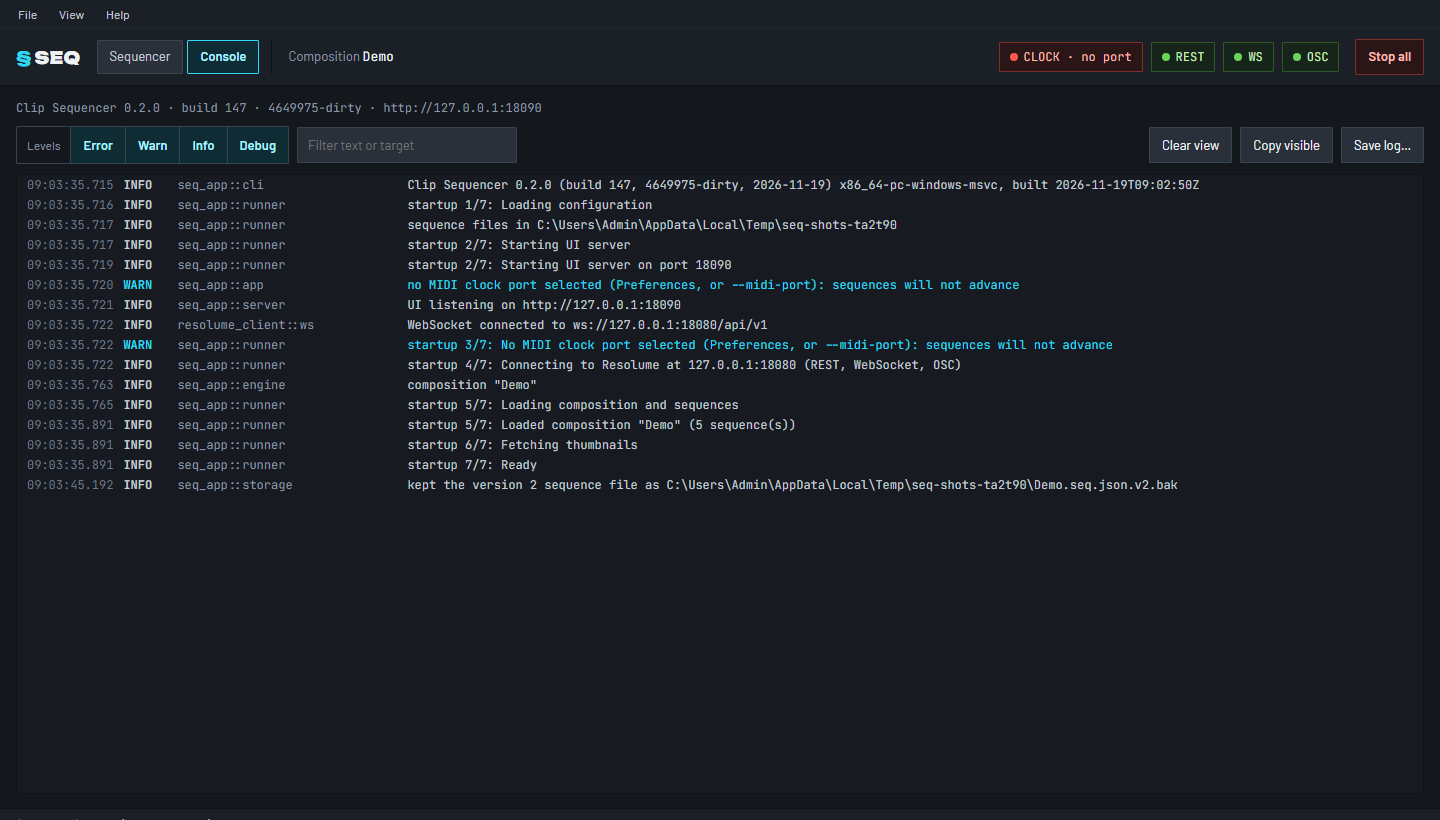
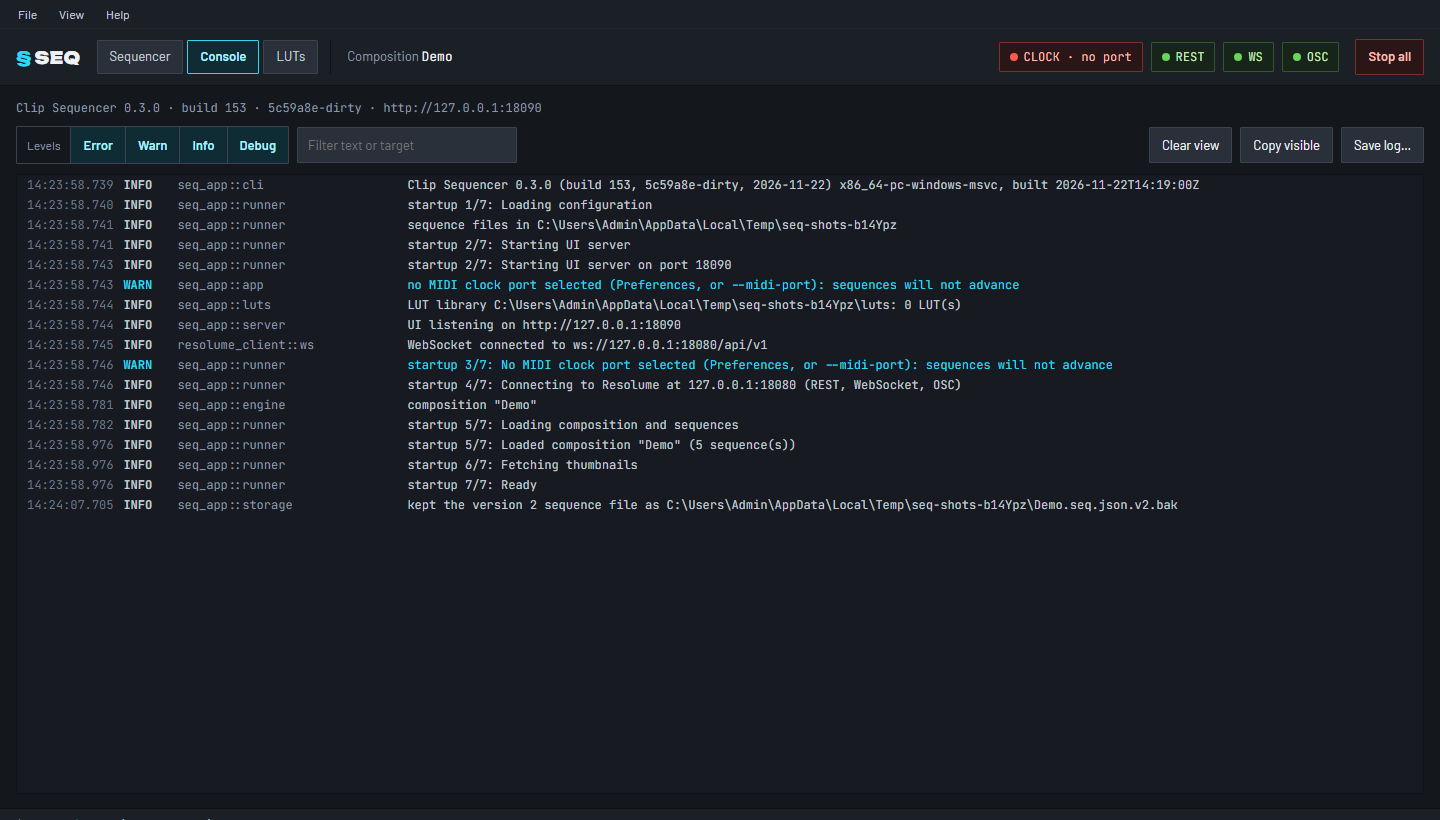
Docs: LUTs (SPEC 14, manual page with screenshots, README, changelog)
All manual screenshots regenerated; three new ones for the LUTs tab.

diff --git a/site/landing/index.html b/site/landing/index.html
@@ -62,6 +62,8 @@
         sequences are kept per deck.</p></li>
       <li><h3>Timeline in Resolume</h3><p>The optional FFGL plugin "1000A Sequence" shows a sequence's lanes and
         playhead right on its clip.</p></li>
+      <li><h3>Colour LUTs</h3><p>Grade the output with sliders and RGB curves, see it before and after, and
+        Resolume's own LUT effect picks up every change while you drag. Imports and exports <code>.cube</code>.</p></li>
       <li><h3>Your look</h3><p>Five themes, from dark rack slate to a light one for daylight, or make your own colours
         and fonts. Everything is bundled, nothing loads from the net.</p></li>
     </ul>

diff --git a/docs/SPEC.md b/docs/SPEC.md
@@ -383,6 +383,7 @@ Single screen, everything controlled from here (no separate live view).
 
 ### 9.1 Top bar
 - `§ SEQ` logo, composition name.
+- **View tabs:** Sequencer (Ctrl+1), Console (Ctrl+2), LUTs (Ctrl+3, §14).
 - **Deck tabs** (see 7.2): selected tab = what is shown; `LIVE` badge = active deck in Resolume.
 - Connection chips: CLOCK (BPM, locked / no clock), REST, WS, OSC — green when OK, red when not.
 - **Stop all** (always visible).
@@ -617,3 +618,71 @@ same-origin; the FFGL plugin and command-line tools send no `Origin`.
 
 Start quantization, time signatures other than 4/4, per-step parameter automation,
 cross-deck sequences, multi-user editing.
+
+## 14. LUTs (M18, decided 2026-11-22)
+
+Colour-grade Resolume's output from the app: a library of LUTs edited in the **LUTs** tab and applied by Resolume's
+own **LUT** effect, which reads a `.cube` file and reloads it by itself when the file changes (notes §18). No own
+plugin.
+
+### 14.1 Library and files
+
+- Folder `<data-dir>/luts/`. Each LUT is `<name>.lut.json` (the controls, below) and `<name>.cube` (the baked
+  table, 33³, 0..1 domain, six decimals, `TITLE` = the name). The name is the file name: at most 64 characters,
+  none of `\ / : * ? " < > |`, no leading or trailing dot or space, no Windows device name; names differ in more
+  than case. At most 200 LUTs.
+- `.lut.json`: `{ "version": 1, "grade": {…}, "curves": {…}, "base"?: { "size", "data" } }`. Missing fields take
+  their defaults (which change nothing); a newer `version` is refused (the file is skipped with a log line).
+  `.seq.json` (§6) is unchanged.
+- Every change bakes the table at once (in memory) and writes both files through a temp file renamed over the old
+  one, so Resolume never reads a half-written file. While a control is dragged, a LUT's files are written at most
+  every 100 ms; the last value is always written. A `.cube` that already holds the same text is not rewritten (a
+  restart doesn't make Resolume reload).
+- At start the library is read from the folder; files that don't load are skipped.
+
+### 14.2 The transform (crates/lut-core)
+
+Display-referred RGB 0..1, in this order: the imported **base** table (trilinear), **exposure** (stops, ×2^e),
+**white balance** (temperature −1..1: R ×(1+0.25t), B ×(1−0.25t); tint −1..1: G ×(1−0.25n)), per channel
+**gain** (master × channel), **lift** (`v + lift·(1−v)`, master + channel), **gamma** (`v^(1/γ)`, master ×
+channel), **contrast** around 0.5, **saturation** around Rec. 709 luma, clamp to 0..1, then the **curves**: master,
+then the channel's own. Curves are monotone cubic splines (Fritsch–Carlson) through their points; left of the
+first point the first y, right of the last the last y.
+
+Import: `.cube` with `LUT_3D_SIZE` (any 2..256) or `LUT_1D_SIZE`, optional `DOMAIN_MIN`/`DOMAIN_MAX`, `#`
+comments; other keywords are ignored. It becomes the base table, resampled to 33³. Export writes the baked table.
+
+### 14.3 Resolume's LUT effects
+
+- The app reads every LUT effect (`name` `LUT` with a `ParamFile` `LUT 3D`) from each composition push: on the
+  composition, the layers and the live deck's clips (layer groups are not read; their JSON is not probed). It
+  subscribes to their `LUT 3D` parameters by id and follows changes.
+- **Binding by reference:** an effect uses a library LUT when its `LUT 3D` path is that LUT's `.cube` (compared
+  without case and slash direction). Resolume saves the path with the composition, so the binding survives
+  reloads and restarts, and it works without the sequencer.
+- **Apply** ("Use <LUT>" on an effect): the app writes the file if pending, then sets `LUT 3D` to its full path over
+  the WebSocket. **Rename** points the effects using the old file at the new one, and removes the old files 2 s
+  later. **Delete** removes the files; the UI asks first and says how many effects use it.
+
+### 14.4 LUTs tab (Ctrl+3)
+
+- Left: the library (name, "used by N LUT effects", "imported"), **+ New** (neutral), **Import…** (several
+  `.cube` files; names from the file names, made unique).
+- Middle: name (double-click renames), Rename, Duplicate, Export .cube, Delete…; the preview: an image with the LUT
+  right of a draggable split, the original left of it. Images: drawn test images (ramps, colour chart, skin tones,
+  neon) and the live deck's clip thumbnails. WebGL2 with the table the app baked, so it matches Resolume. Below:
+  Resolume's LUT effects (where, which file or LUT) with **Use <LUT>**.
+- Right: Basic (exposure, contrast, saturation, temperature, tint), Lift/Gamma/Gain (all, R, G, B), Curves (Master,
+  R, G, B). Double-click on a slider resets it. Changes go to the app every 40 ms while dragging; a control being
+  dragged isn't moved by the app's echo.
+
+### 14.5 Protocol (§9.6)
+
+- App → UI: `luts` `{ dir, luts: [{ name, rev, grade, curves, has_base, path }] }` on connect and on every change;
+  `structure.lut_effects: [{ effect_id, file_param, path, place: { kind: composition | layer | clip, … } }]`.
+- UI → app: `lut_create { name, from? }`, `lut_rename { from, to }`, `lut_delete { name }`,
+  `lut_update { name, grade, curves }`, `lut_clear_base { name }`, `lut_apply { name, file_param }`. Errors show
+  as a notice.
+- HTTP: `GET /api/luts/table?name=` (the baked table: size³ little-endian f32 RGB, red fastest; headers
+  `x-lut-rev`, `x-lut-size`), `GET /api/luts/cube?name=` (export), `POST /api/luts/import?name=` (body: the
+  `.cube` text; `{ ok, name }` or 400 `{ ok: false, error }`).

diff --git a/site/manual/src/luts.md b/site/manual/src/luts.md
@@ -1,0 +1,79 @@
+# Colour LUTs
+
+A **LUT** (lookup table) changes the colours of a picture: warmer, cooler, more contrast, a look for the set, or a
+correction for a projector or LED wall that shows colours off. The **LUTs** tab is a small LUT editor. Resolume
+applies the LUTs with its own **LUT** effect, and every change you make shows on the output while you drag.
+
+![The LUTs tab: library, preview with the original on the left and the LUT on the right, controls](images/luts-tab.png)
+
+## How it fits together
+
+- The sequencer keeps a **library** of named LUTs. Each one is saved as a `.cube` file in the app's data folder
+  (`luts\`).
+- In Resolume you add the built-in **LUT** effect where the LUT should apply: on the **composition** (the whole
+  output, the usual place for projector or LED correction), on a **layer**, or on a **clip**.
+- The effect's **LUT 3D** field points at one of the library's `.cube` files. Several effects can use the same
+  LUT.
+- When you change a LUT in the sequencer, it rewrites the file, and Resolume reloads it by itself, within a
+  moment. Every effect that uses that LUT changes.
+- The link lives in Resolume: it saves the file path with the composition. The LUTs keep working when the sequencer
+  is closed.
+
+## Your first LUT
+
+1. Open the **LUTs** tab (or press **Ctrl+3**).
+2. Click **+ New**. A neutral LUT called *New LUT* appears: it changes nothing yet. Double-click its name to
+   rename it, for example to *Stage Warm*.
+3. Move the controls on the right. The preview shows the original left of the line and the LUT right of it; drag
+   in the picture to move the line. Under **Image** you can pick a test image or one of your clips (the live deck's
+   thumbnails).
+4. In Resolume, add the **LUT** effect to the composition (or a layer or clip). It appears in the sequencer under
+   **LUT effects in Resolume**.
+5. Click **Use Stage Warm** next to it. The effect now uses your LUT; keep adjusting and watch the output.
+
+![LUT effects in Resolume: the composition uses Stage Warm, a layer has no file yet](images/luts-effects.png)
+
+You can also choose the file in Resolume yourself: click the effect's **LUT 3D** field and pick the `.cube` from
+the sequencer's `luts` folder (its path shows above the list).
+
+## The controls
+
+![Controls: basic, lift, gamma, gain and curves](images/luts-controls.png)
+
+| Control | What it does |
+|---|---|
+| **Exposure** | Brighter or darker, in stops (+1 doubles the light). |
+| **Contrast** | More or less difference between dark and bright, around mid grey. |
+| **Saturation** | Colour strength: 0 is black and white, 1 unchanged. |
+| **Temperature** | Cooler (blue) to warmer (orange). |
+| **Tint** | Green to magenta. |
+| **Lift** | Raises or lowers the shadows; per colour it tints them. |
+| **Gamma** | Moves the midtones; per colour it tints them. |
+| **Gain** | Scales the highlights; per colour it balances white (useful for LED walls). |
+| **Curves** | Master, R, G and B. Click to add a point, drag it, double-click to remove it. |
+
+*All* changes the three colours together; **R**, **G** and **B** change one. Double-click a slider to reset it;
+**Reset** next to *Basic* resets all sliders (the curves stay), **Reset** next to the curves resets the curve
+shown. The order is fixed: the sliders first, then the curves.
+
+## Importing and exporting
+
+- **Import…** loads `.cube` files, several at once (3D and 1D LUTs). Each becomes a library LUT named after its
+  file, marked *imported*. The sliders and curves then work on top of it; **remove base** drops the imported table.
+- **Export .cube** saves a LUT for other programs.
+
+## Renaming, duplicating, deleting
+
+- **Rename** (or double-click the name): the file is renamed, and the sequencer points the LUT effects that used
+  it at the new file.
+- **Duplicate** makes a copy to try a variation.
+- **Delete…** asks first and tells you if LUT effects in Resolume use it. They keep their path to a file that is
+  gone, so give them another LUT first.
+
+## Good to know
+
+- Changes are saved at once; there is no Save button and no undo. Duplicate a LUT before big changes.
+- While you drag, the file is written at most ten times a second; the last value always ends up in it.
+- The preview uses the same table as Resolume, so what you see in the sequencer is what Resolume shows (Resolume
+  may apply effects after the LUT that change it).
+- LUT effects inside layer groups aren't listed yet; choose the file in Resolume for those.

diff --git a/docs/PLAN.md b/docs/PLAN.md
@@ -185,7 +185,7 @@ Asked for on 2026-11-19: follow Resolume's tempo when no MIDI clock is used. Pro
       Troubleshooting, Glossary, FAQ, Interface, Introduction, Installation, Quick start); README, changelog,
       landing page.
 
-## M18 — LUT editor, applied through Resolume's LUT effect  (concept agreed 2026-11-22, probe done, not started)
+## M18 — LUT editor, applied through Resolume's LUT effect  (built 2026-11-22, live check pending)
 Asked for on 2026-11-22: build LUTs in the app and apply them in Resolume live. Probed: notes §18. Resolume's
 own **LUT** effect reloads its `.cube` file by itself when the file changes, and its path can be set over the
 WebSocket, so the user chose it over an own FFGL plugin (2026-11-22; the plugin idea is dropped).
@@ -212,11 +212,13 @@ Tasks:
       FFGL effect works; Resolume's LUT effect: `LUT 3D` path, reload on overwrite and on rename, path set over WS.
 - [ ] Check before relying on them: Resolume with a 33³ `.cube` (probed only 17³), `DOMAIN_MIN/MAX`, and how fast
       it reloads during a fast drag (pick the write throttle from it).
-- [ ] `lut-core`: params, curves, bake to 33³, `.cube` read/write, tests.
-- [ ] App: library storage, throttled atomic `.cube` writes, WS commands, LUT effect discovery and "apply to",
-      mock-resolume LUT effect.
-- [ ] Web UI: LUT tab, library, controls, curve editor, preview, import/export, "used by", "apply to".
-- [ ] Docs: SPEC section, manual page with screenshots, README, changelog.
+- [x] `lut-core`: params, curves, bake to 33³, `.cube` read/write (1D/3D, domain), tests.
+- [x] App: library storage, throttled atomic `.cube` writes, WS commands, LUT effect discovery (composition,
+      layers, live deck's clips; not layer groups) and "apply to", mock-resolume effect parameters. Tests.
+- [x] Web UI: LUT tab (Ctrl+3), library, controls, curve editor, WebGL2 preview, import/export, "used by",
+      "Use <LUT>". Checked against the mock with Playwright.
+- [x] Docs: SPEC §14, manual page "Colour LUTs" with screenshots, interface, shortcuts, glossary, README,
+      changelog, landing page.
 
 ## M14 — In-app update  (planned 2026-11-04, not started)
 Goal: the user can check by hand whether a newer release exists, and install it from the app. Work out the

diff --git a/README.md b/README.md
@@ -26,6 +26,8 @@ getting started and for building from source.*
 - Works per deck, follows renames, re-finds clips by id, name or file.
 - Desktop app (one window, splash, live Console tab) and a headless mode with the UI in a browser.
 - Five themes and an editor for your own colours and fonts (Preferences → Appearance).
+- **LUTs tab:** a library of colour LUTs (grading controls, RGB curves, `.cube` import/export) with a before/after
+  preview. Resolume's own LUT effect applies them, and it picks up every change while you drag.
 - Optional FFGL source plugin "1000A Sequence" ([`ffgl/`](ffgl/README.md)) that shows the sequence timeline
   on the `§` clip in Resolume; it ships in the zip and is installed from the app (**File → Install FFGL plugin…**).
 
@@ -176,6 +178,8 @@ folder and logs a warning.
 - **Edits while running** apply at the next start ("edited · applies at next start").
 - **Push thumbnail to Resolume** sets the sequence's mosaic as its `§` clip's thumbnail.
 - **Stop all** clears every layer the sequencer owns.
+- **LUTs** (Ctrl+3): **+ New** or **Import…**, adjust; add Resolume's **LUT** effect to the composition, a layer or a
+  clip and click **Use <LUT>** next to it. LUTs are saved in `%APPDATA%clip-sequencerluts` (`.cube` + `.lut.json`).
 
 Sequences are saved automatically (about 1 s after an edit) to
 `%APPDATA%\clip-sequencer\<Composition>.seq.json`.

diff --git a/site/manual/src/interface.md b/site/manual/src/interface.md
@@ -9,8 +9,8 @@ inspector on the right, and a status bar at the bottom.
 
 ![Top bar](images/top-bar.png)
 
-- **§ SEQ** and the tabs **Sequencer | Console** (Ctrl+1 / Ctrl+2). The Console tab shows the log; a red number on
-  it counts new errors.
+- **§ SEQ** and the tabs **Sequencer | Console | LUTs** (Ctrl+1 / Ctrl+2 / Ctrl+3). The Console tab shows the log;
+  a red number on it counts new errors. The LUTs tab edits colour LUTs for Resolume ([Colour LUTs](luts.md)).
 - **Composition**: the name of the composition open in Resolume. Sequences are saved per composition.
 - **Deck tabs**: one per Resolume deck. The tab you select is the deck shown below; **LIVE** marks the deck
   Resolume is playing. Selecting a tab never switches Resolume ([Working with decks](decks.md)). A dashed tab is a

diff --git a/CHANGELOG.md b/CHANGELOG.md
@@ -7,6 +7,13 @@ The format follows [Keep a Changelog](https://keepachangelog.com/en/1.1.0/), and
 
 ## [Unreleased]
 
+### Added
+
+- **LUTs tab** (Ctrl+3): a library of colour LUTs with exposure, contrast, saturation, temperature, tint,
+  lift/gamma/gain per channel and RGB curves, a before/after preview on test images or your clips, and `.cube`
+  import and export. Resolume's own **LUT** effect applies them: **Use <LUT>** points an effect at a LUT's file,
+  and Resolume reloads it on every change.
+
 ## [0.3.0] - 2026-11-19
 
 ### Added

diff --git a/site/manual/src/glossary.md b/site/manual/src/glossary.md
@@ -15,6 +15,10 @@
 **LIVE**
 : The deck Resolume is playing now; marked on the deck tabs.
 
+**LUT**
+: A lookup table that changes colours. The LUTs tab edits them; Resolume's LUT effect applies them
+  ([Colour LUTs](luts.md)).
+
 **Orphaned**
 : Sequences of a deck name that no longer exists in Resolume.
 

diff --git a/site/manual/src/SUMMARY.md b/site/manual/src/SUMMARY.md
@@ -18,6 +18,7 @@
 - [Files and data](files.md)
 - [Thumbnails](thumbnails.md)
 - [Installing the FFGL plugin](ffgl-plugin.md)
+- [Colour LUTs](luts.md)
 - [Themes](themes.md)
 
 # Reference
